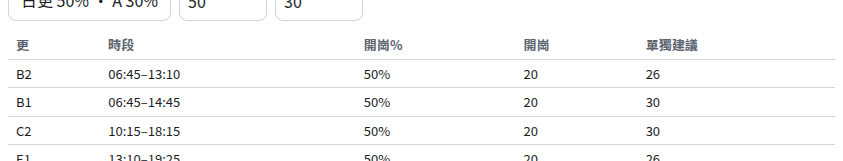
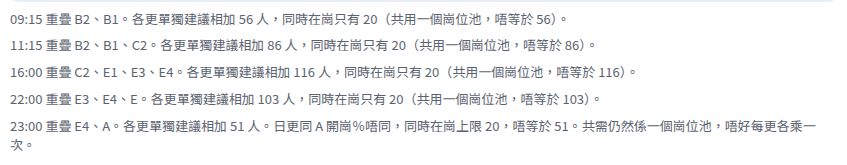
對齊兩份 VERIFY：A 30% 同人手不足截圖
人手試算分開標明日更 50% 同 A 30%。一鍵編崗截圖改為 A 更視角準備 B1／B2，並補上人數不足未寫表嘅畫面。

diff --git a/src/components/HeadcountPanel.tsx b/src/components/HeadcountPanel.tsx
@@ -1,6 +1,6 @@
 import { useState } from "react";
 import { headcountTrial } from "@/logic/headcount";
-import { SHIFTS, officeLabel } from "@/logic/staffing";
+import { SHIFTS, hallMax, officeLabel, officeOf, shiftOf } from "@/logic/staffing";
 import type { ShiftId, StaffingState } from "@/types";
 
 export function HeadcountPanel({
@@ -28,7 +28,13 @@ export function HeadcountPanel({
 }) {
   const trial = headcountTrial(staffing, dayPercent, nightPercent);
   const dayOpen = trial.lines.find((line) => line.band === "day")?.openPosts ?? 0;
-  const nightOpen = trial.lines.find((line) => line.shiftId === "A")?.openPosts ?? 0;
+  const nightLine = trial.lines.find((line) => line.shiftId === "A");
+  const nightOpen = nightLine?.openPosts ?? 0;
+  const office = officeOf(staffing.officeId);
+  const fullOpen = office.kind === "hall"
+    ? hallMax(staffing.counterMax, staffing.gates, staffing.gatesPerPost)
+    : staffing.kioskMax;
+  const here = shiftOf(staffing.shiftId);
   const [picked, setPicked] = useState<Partial<Record<ShiftId, boolean>>>({ B1: true, B2: true });
   const [counts, setCounts] = useState<Partial<Record<ShiftId, string>>>({});
 
@@ -93,6 +99,9 @@ export function HeadcountPanel({
             />
           </label>
         </div>
+        <p className="hc-callout" data-testid="hc-day-summary">
+          日更 {dayPercent}%：開滿 {fullOpen} 崗 × {dayPercent}% = 開 {dayOpen} 崗（同時在崗需求）。各更建議已計休息／meal，見下表。
+        </p>
         <div className="headcount-scroll">
         <table className="headcount-table" data-testid="headcount-table">
           <thead>
@@ -106,7 +115,7 @@ export function HeadcountPanel({
           </thead>
           <tbody>
             {trial.lines.map((line) => (
-              <tr key={line.shiftId} data-testid={`headcount-row-${line.shiftId}`}>
+              <tr key={line.shiftId} data-testid={`headcount-row-${line.shiftId}`} className={line.shiftId === "A" ? "is-night" : undefined}>
                 <td>{line.shiftId}</td>
                 <td>{line.start}–{line.end}</td>
                 <td>{line.percent}%</td>
@@ -117,6 +126,9 @@ export function HeadcountPanel({
           </tbody>
         </table>
         </div>
+        <p className="hc-callout is-night" data-testid="hc-a-summary">
+          A 更 {nightPercent}%：開滿 {fullOpen} 崗 × {nightPercent}% = 開 {nightOpen} 崗，建議 {nightLine?.suggested ?? 0} 人（含大休）。A 完結 {nightLine?.end ?? "06:45"}。
+        </p>
         <div data-testid="overlap-explain">
           {trial.overlaps.map((item) => (
             <p key={item.at} data-testid={`overlap-at-${item.at.replace(":", "")}`}>{item.message}</p>
@@ -132,9 +144,9 @@ export function HeadcountPanel({
         }}
       >
         <h2>輸入返工人數 · 一鍵編崗</h2>
-        <p>
-          目標區：{officeLabel(staffing.officeId)}（用上面區掣改）。主管可以喺 A 更準備下一更：揀 B1／B2（或單獨一個更），輸入呢更有幾多人返工。
-          開崗跟上面試算：日更用日更％，淨係編 A 就用 A％。預設日更 50%、A 30%。唔使登入。
+        <p data-testid="prepare-context">
+          而家視角 {staffing.shiftId}（{here.start}–{here.end}）。目標區 {officeLabel(staffing.officeId)}。
+          準備編下面剔住嘅更（A 更時可編 B1／B2）。開崗跟上面試算，日更預設 50%。唔使登入。
         </p>
         <ul className="roster-n-list">
           {SHIFTS.map((shift) => (

diff --git a/src/theme.css b/src/theme.css
@@ -1321,6 +1321,21 @@ select {
   border-color: #2f6b4f;
 }
 
+.hc-callout {
+  margin: 0 0 8px;
+  padding: 8px 10px;
+  border-radius: 8px;
+  background: #eef1f6;
+  color: var(--ink-primary, #1a1d23);
+  font-size: 14px;
+  line-height: 1.45;
+}
+
+.hc-callout.is-night,
+.headcount-table tr.is-night td {
+  background: #e8eef8;
+}
+
 .headcount-scroll {
   overflow-x: auto;
   max-width: 100%;

diff --git a/VERIFY-ROSTER-BY-HEADCOUNT-RESULT.md b/VERIFY-ROSTER-BY-HEADCOUNT-RESULT.md
@@ -1,37 +1,27 @@
-# RESULT｜#2 輸入返工人數 → 一鍵編崗
+# RESULT｜輸入返工人數 → 一鍵編崗
 
+對照：`VERIFY-ROSTER-BY-HEADCOUNT.md`（#2，優先）  
 日期：2/10/2026  
 狀態：**新功能**（之前未有）  
-待簽：Mark
+待簽：Mark  
+Render：未 deploy
 
-## 點用（主管喺 A 更準備 B1／B2）
+情境：主管而家 **A 更**，準備編 **B1／B2**。唔使登入。
 
-1. 上面區掣揀區（例如 Arr Hall）。可以停喺「準備邊個更 → A」，唔使登入、唔接人事。
-2. 右側「輸入返工人數 · 一鍵編崗」。B1、B2 預設剔住。
-3. 輸入每更返工人數。開崗跟左邊試算：**日更用日更％（預設 50%）**；淨係編 A 先用 A％（預設 30%）。日更同 A 唔好同一次撳。
-4. 撳 **一鍵編崗**。成功之後：
-   - 現場開崗％改成嗰次用嘅％
-   - 時鐘跳去兩更重疊最長嘅起點（B1+B2 係 **06:45**，A 已收工）
-   - 編崗表同「現在」板見到人上崗
-   - 可再撳 **生成 Preview Excel**（原有預覽，會帶呢張編表）
-5. 唔想要：撳 **回復示範**。改開崗％、區、或規則會清走呢次一鍵結果。
+## P0
 
-## 人數策略
+- [x] 可揀區（上面區掣）＋目標更（B1／B2 可一齊或逐更）並輸入返工人數 N。
+- [x] 一鍵編崗之後，編表時間格有人上崗。日更跟試算開崗％，預設 **50%**（Arr Hall 開 20 崗）。
+- [x] N 不足：紅字寫缺幾多個崗、建議減開崗％或減崗，**未寫入編表**。
+- [x] 結果先出編表；可再撳現有「生成 Preview Excel」。V1 貪婪，唔係完美 solver。多人多過開崗就留 **R（後備）**，唔加開崗位。
 
-- **少過開崗**：唔寫入編表。紅字寫明幾時、缺幾多個崗、單獨包場建議幾多，並叫人減開崗％、減崗，或者加返工人數。唔會靜靜編半截當成功。
-- **夠蓋開崗，但少過單獨建議**：如果休息／meal 之後仍有空崗，同樣當未編完，唔寫入。
-- **多過需要**：全部人留喺表上。開崗填滿之後，多餘時間寫 **R（後備）**，**唔會加開崗位**。重疊更共用一個崗位池，所以兩更一齊返、人數多過開崗時，同時在崗仍然等於開崗數，多出嘅人休息。V1 係貪婪編班，唔係 OR-Tools 最優。
-
-例：Arr Hall 日更 50% 開 20 崗。B2 輸入 26、B1 輸入 30（各自單獨包場建議）可以編滿。B2 只輸入 5 人會提示缺 15 個崗，編表唔變。
-
-## 規則
-
-跟現有休息、meal、粘崗、R 後返原崗、喜好。而家選中邊更，就用畫面嗰套規則；其他更用該更預設（B1 有 meal，A 有大休）。喜好若果令人上唔到開崗，當人手不足，唔寫入。
+例：A 更視角，B2 輸入 26、B1 輸入 30，一鍵後 20 個崗有人，B1 有 MB，多餘時間係 R。B2 只輸入 5：缺 15 個崗，編表唔變。
 
 ## 截圖
 
-- `shots/roster-n-input.png`：B1=30、B2=26 輸入面板
-- `shots/roster-n-result.png`：一鍵之後編表（崗位、MB、後備 R）
+- `shots/roster-n-input.png`：而家視角 A，B1=30、B2=26
+- `shots/roster-n-result.png`：一鍵後編表（崗位、MB、後備 R）
+- `shots/roster-n-short.png`：B2 只得 5 人，缺 15 個崗，未寫入編表
 
 ## 本機
 
@@ -39,4 +29,8 @@
 npm install && npm run dev
 ```
 
-開 http://127.0.0.1:4317 。測試：`npx vitest run src/logic/headcount.test.ts`。未 deploy Render。
+開 http://127.0.0.1:4317 。撳「準備邊個更 → A」，喺右側輸入 B1／B2 人數再一鍵。人手不足可只輸入 B2=5 再撳一次。
+
+```bash
+npx vitest run src/logic/headcount.test.ts
+```

diff --git a/VERIFY-OPENPCT-HEADCOUNT-RESULT.md b/VERIFY-OPENPCT-HEADCOUNT-RESULT.md
@@ -1,0 +1,42 @@
+# RESULT｜開崗％一鍵計各更人手（含 overlap）
+
+對照：`VERIFY-OPENPCT-HEADCOUNT.md`（#1）  
+日期：2/10/2026  
+狀態：**新補**（舊頂欄「開崗%→共需」只得而家一更，未夠一屏各更＋overlap，所以唔係「已有」）  
+待簽：Mark  
+Render：未 deploy
+
+## P0
+
+- [x] 一鍵設日更 50%、A 30%（按鈕「日更 50% · A 30%」；面板開波已經係呢組數），並顯示各更建議人數（休息／meal／A 大休）。
+- [x] Overlap：同時在崗 ≠ 各更建議相加，有數字，並寫明共用崗位池。
+- [x] 開崗跟％：Hall 開滿 40 崗 × 50% = 開 20 崗（同時在崗），再換算該更編用人數。A 30% = 開 12 崗，建議 21 人。
+
+## 出數（Arr Hall，閘 60÷6）
+
+| 更 | ％ | 開崗 | 單獨建議 |
+| --- | --- | --- | --- |
+| B2、E1 | 50 | 20 | 26 |
+| B1、C2、E3、E4 | 50 | 20 | 30 |
+| E | 50 | 20 | 43 |
+| A（至 06:45） | 30 | 12 | 21 |
+
+Kiosk 開滿 12：日更 50% 開 6 崗，A 30% 開 4 崗。
+
+09:15 B2+B1 建議相加 56，同時在崗只有 20。23:00 E4+A 相加 51，同時在崗上限 20，唔好當 51 人同時在場。
+
+頂欄「共需人手」仍然係而家選中嗰更、而家開崗數，同試算表唔係同一個掣。
+
+## 截圖
+
+- `shots/hc-day50.png`：日更 50%、40×50%=20、各更建議
+- `shots/hc-a30.png`：A 行 30%、開 12、建議 21，完結 06:45
+- `shots/hc-overlap.png`：重疊時段同時在崗 vs 各更相加
+
+## 本機
+
+```bash
+npm install && npm run dev
+```
+
+開 http://127.0.0.1:4317 ，撳「日更 50% · A 30%」，睇人手試算同 overlap 文案。
